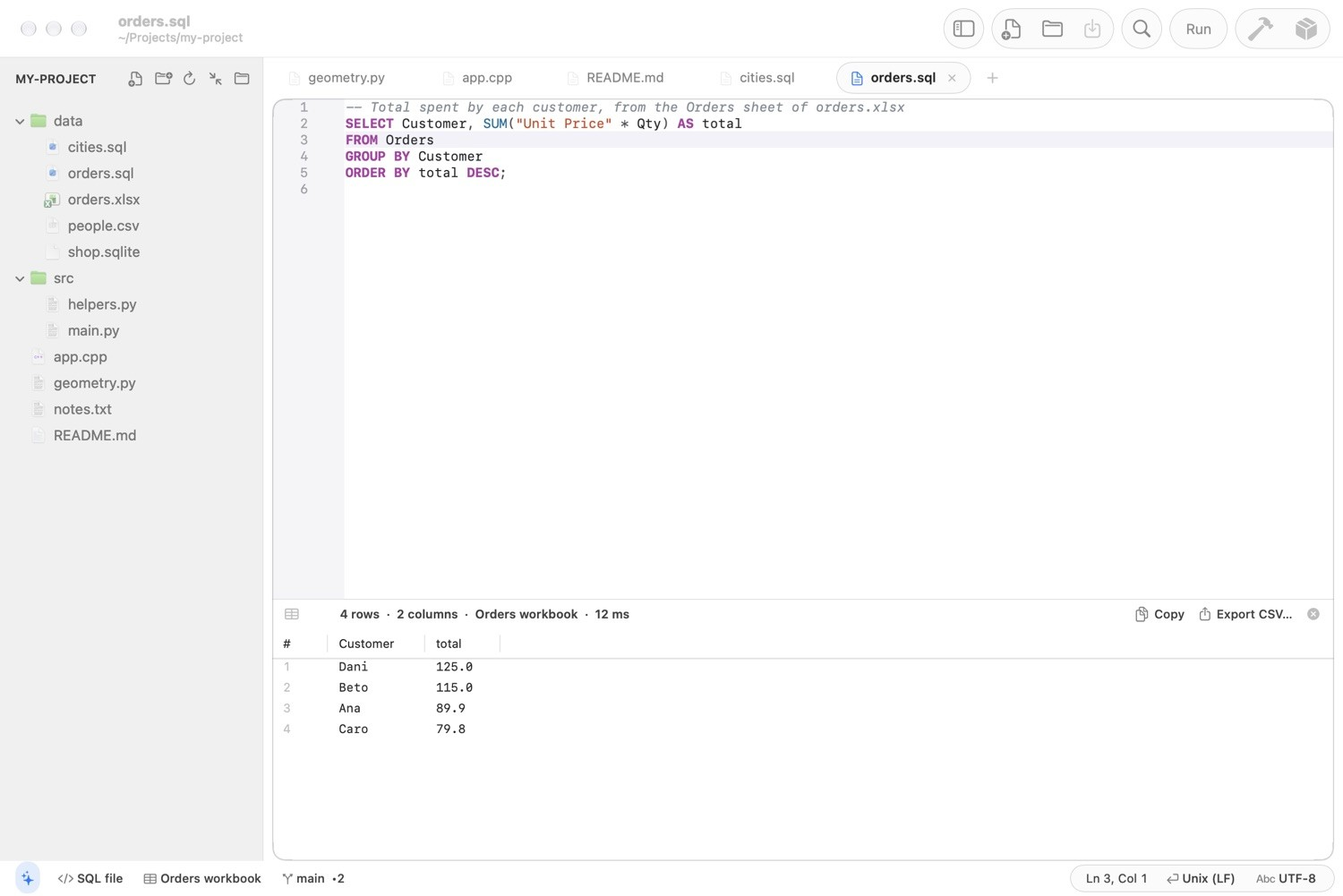
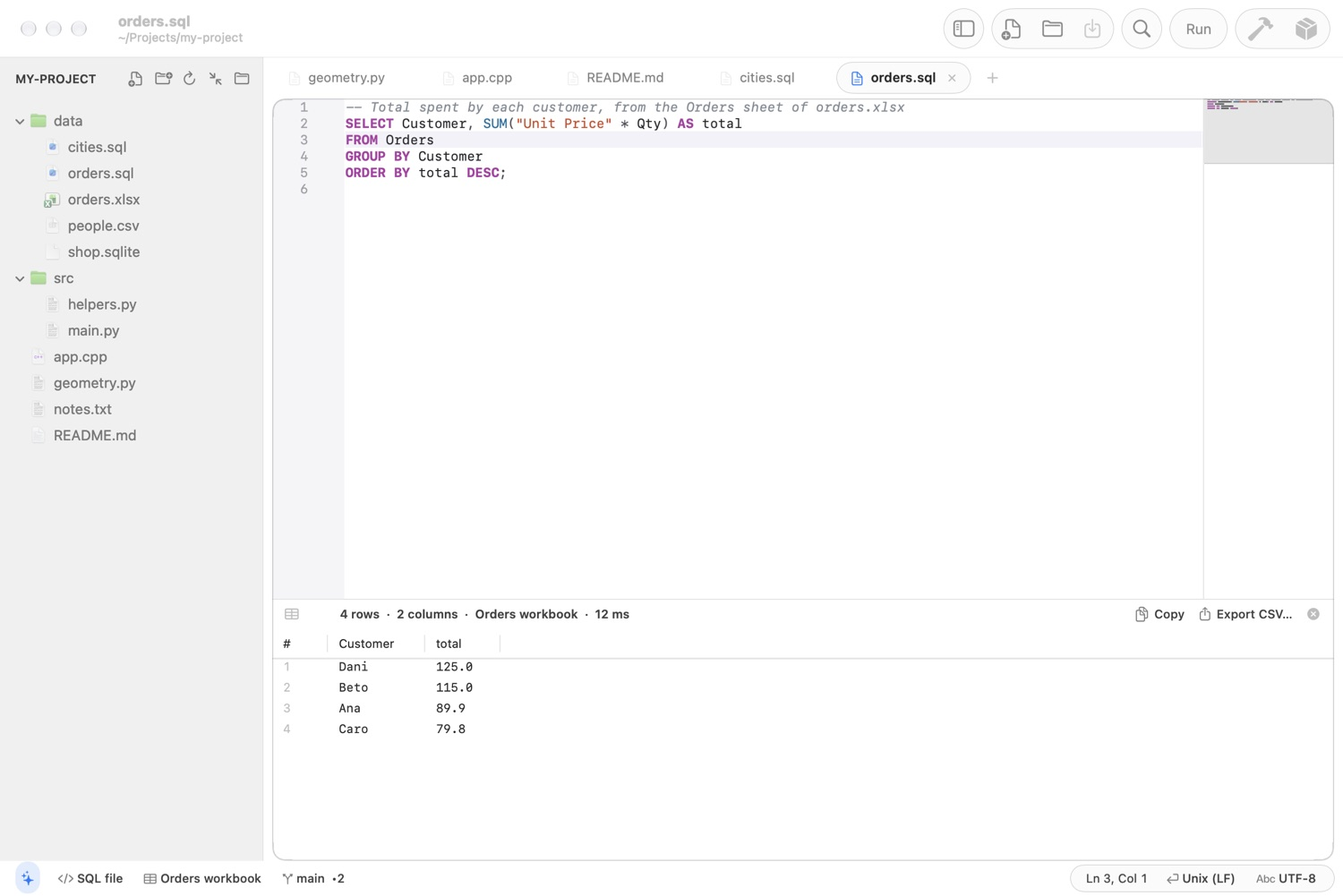
Site follows the latest J++: Go to Anything, Command Palette, minimap, GitHub browsing and pull requests, Claude CLI, new screenshots

Changed region(s): [[0.8893, 0.0929, 1.0, 0.1858]]

diff --git a/es/index.html b/es/index.html
@@ -57,7 +57,7 @@
 <section class="stats" aria-label="J++">
   <div class="wrap stats-grid">
     <div class="stat reveal"><strong>95</strong><span>lenguajes con resaltado de sintaxis</span></div>
-    <div class="stat reveal"><strong>&lt; 10 MB</strong><span>toda la descarga</span></div>
+    <div class="stat reveal"><strong>10 MB</strong><span>toda la descarga</span></div>
     <div class="stat reveal"><strong>0</strong><span>extensiones que instalar</span></div>
     <div class="stat reveal"><strong>0</strong><span>datos recopilados</span></div>
   </div>
@@ -69,12 +69,12 @@
     <h2 class="reveal">Lo que lo hace diferente.</h2>
     <p class="lead reveal">La mayoría de los editores empiezan vacíos y te piden armar el resto. J++ empieza completo, y está hecho para Mac y para nada más.</p>
     <div class="tiles">
-      <article class="tile reveal"><svg class="tile-icon" viewBox="0 0 24 24" aria-hidden="true"><path d="M13 2 4 14h7l-1 8 9-12h-7z"/></svg><h3>Nativo de verdad</h3><p>Hecho con Cocoa para macOS, no una página web dentro de un envoltorio. Arranca rápido, se comporta como el resto de tu Mac, y toda la app es una descarga de menos de 10 MB.</p></article>
+      <article class="tile reveal"><svg class="tile-icon" viewBox="0 0 24 24" aria-hidden="true"><path d="M13 2 4 14h7l-1 8 9-12h-7z"/></svg><h3>Nativo de verdad</h3><p>Hecho con Cocoa para macOS, no una página web dentro de un envoltorio. Arranca rápido, se comporta como el resto de tu Mac, y toda la app es una descarga de unos 10 MB.</p></article>
       <article class="tile reveal"><svg class="tile-icon" viewBox="0 0 24 24" aria-hidden="true"><path d="M21 8 12 3 3 8v8l9 5 9-5z"/><path d="m3 8 9 5 9-5M12 13v8"/></svg><h3>Completo desde el primer día</h3><p>Ejecutar, depurar, IntelliSense, SQL, GitHub e IA son parte de la app. No hay tienda donde buscar ni extensiones que elegir, configurar y mantener al día.</p></article>
       <article class="tile reveal"><svg class="tile-icon" viewBox="0 0 24 24" aria-hidden="true"><ellipse cx="12" cy="5.5" rx="8" ry="3"/><path d="M4 5.5v6.5c0 1.7 3.6 3 8 3s8-1.3 8-3V5.5M4 12v6.500c0 1.700 3.600 3 8 3s8-1.300 8-3V12"/></svg><h3>Tus datos, a una consulta</h3><p>Ejecuta SQL en Databricks, Snowflake, PostgreSQL, MySQL, SQL Server y SQLite. Hasta un libro de Excel o un archivo CSV se convierte en una tabla que puedes consultar.</p></article>
       <article class="tile reveal"><svg class="tile-icon" viewBox="0 0 24 24" aria-hidden="true"><path d="M10 3 11.800 8.200 17 10l-5.200 1.800L10 17l-1.800-5.200L3 10l5.200-1.800z"/><path d="M18 14l.9 2.100L21 17l-2.100.9L18 20l-.9-2.100L15 17l2.100-.9z"/></svg><h3>IA en tus términos</h3><p>Conecta tu propia clave de la API de Claude, cualquier servicio compatible con OpenAI o un modelo que corre en tu Mac. J++ no tiene suscripción, y tu código se envía solo cuando tú lo pides.</p></article>
       <article class="tile reveal"><svg class="tile-icon" viewBox="0 0 24 24" aria-hidden="true"><rect x="5" y="11" width="14" height="10" rx="2.500"/><path d="M8 11V8a4 4 0 0 1 8 0v3"/></svg><h3>Privado por diseño</h3><p>Sin cuenta, sin analíticas, sin publicidad, sin rastreo. Las contraseñas, los tokens y las claves se guardan en el Llavero de macOS.</p></article>
-      <article class="tile reveal"><svg class="tile-icon" viewBox="0 0 24 24" aria-hidden="true"><rect x="3" y="4" width="18" height="12" rx="2"/><path d="M8 20h8M12 16v4"/></svg><h3>En casa en tu Mac</h3><p>Liquid Glass en macOS 26, SF Symbols, SF Mono y apariencias clara y oscura que siguen al sistema. Una sola app para Apple Silicon e Intel.</p></article>
+      <article class="tile reveal"><svg class="tile-icon" viewBox="0 0 24 24" aria-hidden="true"><rect x="3" y="4" width="18" height="12" rx="2"/><path d="M8 20h8M12 16v4"/></svg><h3>En casa en tu Mac</h3><p>Liquid Glass en macOS 26, SF Symbols y SF Mono. La apariencia sigue a macOS, o se queda en clara u oscura si lo prefieres. Una sola app para Apple Silicon e Intel.</p></article>
     </div>
   </div>
 </section>
@@ -89,11 +89,20 @@
       <p class="eyebrow">Editar</p>
       <h3>Un editor que te sigue el ritmo.</h3>
       <p>El motor de edición es Scintilla, conocido por su rapidez con archivos grandes. A su alrededor, J++ añade las herramientas que usas todo el día.</p>
-      <ul><li>Resaltado de sintaxis y plegado de código para 95 lenguajes</li><li>Cursores múltiples, edición en columna, macros y marcadores</li><li>Buscar, reemplazar y marcar con expresiones regulares en todos los archivos abiertos</li><li>Un explorador de archivos que se actualiza cuando la carpeta cambia</li><li>Restauración de la sesión que conserva hasta el texto sin guardar</li></ul>
+      <ul><li>Resaltado de sintaxis y plegado de código para 95 lenguajes</li><li>Cursores múltiples, edición en columna, macros y marcadores</li><li>Buscar, reemplazar y marcar con expresiones regulares en todos los archivos abiertos</li><li>Un explorador de archivos que se actualiza cuando la carpeta cambia</li><li>Una barra de herramientas compacta: los botones de depuración aparecen solo cuando puedes usarlos</li><li>Restauración de la sesión que conserva hasta el texto sin guardar</li></ul>
     </div>
     <div class="feature-shot reveal"><picture><source srcset="../img/overview-dark.jpg" media="(prefers-color-scheme: dark)"><img class="shot " src="../img/overview-light.jpg" alt="El editor de J++ con el explorador lateral y un archivo de Python." width="1500" height="1001" loading="lazy" decoding="async"></picture></div>
   </article>
-  <article class="feature flip" id="intellisense">
+  <article class="feature flip dialog" id="goto">
+    <div class="feature-text reveal">
+      <p class="eyebrow">Ir a cualquier cosa</p>
+      <h3>Escribe unas letras. Ya estás ahí.</h3>
+      <p>Pulsa ⌘P y escribe. J++ encuentra un archivo con unas pocas de sus letras en orden, así que <code>mpy</code> encuentra <code>src/main.py</code>, y <code>nombre:42</code> lo abre en la línea 42.</p>
+      <ul><li>En el mismo panel, <code>@</code> muestra los símbolos del archivo, <code>:</code> va a una línea y <code>#</code> busca texto</li><li>La paleta de comandos (⇧⌘P) ejecuta cualquier comando de los menús por su nombre, y muestra dónde está y su atajo</li><li>Un minimapa de todo el archivo junto al editor: haz clic o arrastra sobre él para desplazarte</li></ul>
+    </div>
+    <div class="feature-shot reveal"><picture><source srcset="../img/palette-commands-dark.jpg" media="(prefers-color-scheme: dark)"><img class="shot " src="../img/palette-commands-light.jpg" alt="La paleta de comandos con los comandos Sort Lines después de escribir «sort lines»." width="1280" height="580" loading="lazy" decoding="async"></picture></div>
+  </article>
+  <article class="feature" id="intellisense">
     <div class="feature-text reveal">
       <p class="eyebrow">IntelliSense</p>
       <h3>Conoce tu código.</h3>
@@ -102,7 +111,7 @@
     </div>
     <div class="feature-shot reveal"><picture><source srcset="../img/intellisense-complete-dark.jpg" media="(prefers-color-scheme: dark)"><img class="shot " src="../img/intellisense-complete-light.jpg" alt="Una lista de autocompletado con los miembros de un objeto de Python." width="1500" height="1001" loading="lazy" decoding="async"></picture></div>
   </article>
-  <article class="feature" id="run">
+  <article class="feature flip" id="run">
     <div class="feature-text reveal">
       <p class="eyebrow">Ejecutar y depurar</p>
       <h3>Pulsa F5. En cualquier lenguaje.</h3>
@@ -111,7 +120,7 @@
     </div>
     <div class="feature-shot reveal"><picture><source srcset="../img/debug-dark.jpg" media="(prefers-color-scheme: dark)"><img class="shot " src="../img/debug-light.jpg" alt="El depurador de Python detenido en una línea, con las variables junto a la salida." width="1500" height="1001" loading="lazy" decoding="async"></picture></div>
   </article>
-  <article class="feature flip" id="sql">
+  <article class="feature" id="sql">
     <div class="feature-text reveal">
       <p class="eyebrow">Bases de datos</p>
       <h3>SQL, justo al lado de tu código.</h3>
@@ -120,21 +129,21 @@
     </div>
     <div class="feature-shot reveal"><picture><source srcset="../img/excel-dark.jpg" media="(prefers-color-scheme: dark)"><img class="shot " src="../img/excel-light.jpg" alt="Una consulta SQL sobre un libro de Excel, con los resultados en una tabla bajo el código." width="1500" height="1001" loading="lazy" decoding="async"></picture></div>
   </article>
-  <article class="feature" id="ai">
+  <article class="feature flip" id="ai">
     <div class="feature-text reveal">
       <p class="eyebrow">Asistente de IA</p>
       <h3>Un asistente que ve lo que tú ves.</h3>
       <p>Haz una pregunta y el asistente lee el archivo que tienes delante y tu selección. Insert y Replace Selection llevan el código de la respuesta al editor en un solo paso de deshacer.</p>
-      <ul><li>Preguntas listas para explicar el código, buscar problemas, mejorarlo, añadir comentarios o escribir pruebas</li><li>Modelos Claude con tu propia clave de API, con respuestas que aparecen mientras se escriben</li><li>Cualquier servicio compatible con OpenAI, incluido un modelo local como Ollama</li></ul>
+      <ul><li>Preguntas listas para explicar el código, buscar problemas, mejorarlo, añadir comentarios o escribir pruebas</li><li>Modelos Claude con tu propia clave de API, con respuestas que aparecen mientras se escriben</li><li>Cualquier servicio compatible con OpenAI, incluido un modelo local como Ollama</li><li>¿Aún no hay un modelo conectado? Si Claude CLI está instalado, el mismo botón lo abre en Terminal, en la carpeta de tu proyecto</li></ul>
     </div>
     <div class="feature-shot reveal"><picture><source srcset="../img/assistant-dark.jpg" media="(prefers-color-scheme: dark)"><img class="shot " src="../img/assistant-light.jpg" alt="El panel del asistente junto al editor, explicando un error en la función seleccionada." width="1500" height="1001" loading="lazy" decoding="async"></picture></div>
   </article>
-  <article class="feature flip dialog" id="github">
+  <article class="feature dialog" id="github">
     <div class="feature-text reveal">
       <p class="eyebrow">GitHub</p>
-      <h3>De clonar a publicar, sin salir.</h3>
+      <h3>De explorar a fusionar, sin salir.</h3>
       <p>Conecta tu cuenta y J++ muestra tus repositorios. La barra de estado indica la rama, lo que hay por enviar o recibir y cuántos archivos cambiaron.</p>
-      <ul><li>Clonar, confirmar, enviar, recibir y actualizar</li><li>Publicar una carpeta en un repositorio nuevo</li><li>Crear un gist desde un archivo o copiar un enlace a la línea actual</li></ul>
+      <ul><li>Explora las carpetas y los archivos de tus repositorios sin clonarlos</li><li>Crea un pull request y fusiónalo con merge, squash o rebase</li><li>Clonar, confirmar, enviar, recibir y actualizar</li><li>Publica una carpeta en un repositorio nuevo, crea un gist o copia un enlace a la línea actual</li></ul>
     </div>
     <div class="feature-shot reveal"><picture><source srcset="../img/github-clone-dark.jpg" media="(prefers-color-scheme: dark)"><img class="shot " src="../img/github-clone-light.jpg" alt="La ventana Clonar repositorio con la lista de repositorios de la cuenta." width="1280" height="920" loading="lazy" decoding="async"></picture></div>
   </article>

diff --git a/index.html b/index.html
@@ -57,7 +57,7 @@
 <section class="stats" aria-label="J++">
   <div class="wrap stats-grid">
     <div class="stat reveal"><strong>95</strong><span>languages with syntax colouring</span></div>
-    <div class="stat reveal"><strong>&lt; 10 MB</strong><span>the whole download</span></div>
+    <div class="stat reveal"><strong>10 MB</strong><span>the whole download</span></div>
     <div class="stat reveal"><strong>0</strong><span>extensions to install</span></div>
     <div class="stat reveal"><strong>0</strong><span>data collected</span></div>
   </div>
@@ -69,12 +69,12 @@
     <h2 class="reveal">What makes it different.</h2>
     <p class="lead reveal">Most editors start empty and ask you to assemble the rest. J++ starts complete, and it is made for the Mac and nothing else.</p>
     <div class="tiles">
-      <article class="tile reveal"><svg class="tile-icon" viewBox="0 0 24 24" aria-hidden="true"><path d="M13 2 4 14h7l-1 8 9-12h-7z"/></svg><h3>Truly native</h3><p>Built with Cocoa for macOS, not a web page inside a wrapper. It starts fast, behaves like the rest of your Mac, and the whole app is a download of less than 10 MB.</p></article>
+      <article class="tile reveal"><svg class="tile-icon" viewBox="0 0 24 24" aria-hidden="true"><path d="M13 2 4 14h7l-1 8 9-12h-7z"/></svg><h3>Truly native</h3><p>Built with Cocoa for macOS, not a web page inside a wrapper. It starts fast, behaves like the rest of your Mac, and the whole app is a download of about 10 MB.</p></article>
       <article class="tile reveal"><svg class="tile-icon" viewBox="0 0 24 24" aria-hidden="true"><path d="M21 8 12 3 3 8v8l9 5 9-5z"/><path d="m3 8 9 5 9-5M12 13v8"/></svg><h3>Complete from the first launch</h3><p>Run, debug, IntelliSense, SQL, GitHub and AI are part of the app. There is no marketplace to search and no extensions to choose, set up and keep updated.</p></article>
       <article class="tile reveal"><svg class="tile-icon" viewBox="0 0 24 24" aria-hidden="true"><ellipse cx="12" cy="5.5" rx="8" ry="3"/><path d="M4 5.5v6.5c0 1.7 3.6 3 8 3s8-1.3 8-3V5.5M4 12v6.500c0 1.700 3.600 3 8 3s8-1.300 8-3V12"/></svg><h3>Your data is one query away</h3><p>Run SQL on Databricks, Snowflake, PostgreSQL, MySQL, SQL Server and SQLite. Even an Excel workbook or a CSV file becomes a table you can query.</p></article>
       <article class="tile reveal"><svg class="tile-icon" viewBox="0 0 24 24" aria-hidden="true"><path d="M10 3 11.800 8.200 17 10l-5.200 1.800L10 17l-1.800-5.200L3 10l5.200-1.800z"/><path d="M18 14l.9 2.100L21 17l-2.100.9L18 20l-.9-2.100L15 17l2.100-.9z"/></svg><h3>AI on your terms</h3><p>Connect your own Claude API key, any OpenAI-compatible service, or a model running on your Mac. J++ has no subscription, and your code is sent only when you ask.</p></article>
       <article class="tile reveal"><svg class="tile-icon" viewBox="0 0 24 24" aria-hidden="true"><rect x="5" y="11" width="14" height="10" rx="2.500"/><path d="M8 11V8a4 4 0 0 1 8 0v3"/></svg><h3>Private by design</h3><p>No account, no analytics, no advertising, no tracking. Passwords, tokens and API keys are kept in the macOS Keychain.</p></article>
-      <article class="tile reveal"><svg class="tile-icon" viewBox="0 0 24 24" aria-hidden="true"><rect x="3" y="4" width="18" height="12" rx="2"/><path d="M8 20h8M12 16v4"/></svg><h3>At home on your Mac</h3><p>Liquid Glass on macOS 26, SF Symbols, SF Mono, and light and dark appearances that follow the system. One app for Apple silicon and Intel.</p></article>
+      <article class="tile reveal"><svg class="tile-icon" viewBox="0 0 24 24" aria-hidden="true"><rect x="3" y="4" width="18" height="12" rx="2"/><path d="M8 20h8M12 16v4"/></svg><h3>At home on your Mac</h3><p>Liquid Glass on macOS 26, SF Symbols and SF Mono. The appearance follows macOS, or stays Light or Dark if you prefer. One app for Apple silicon and Intel.</p></article>
     </div>
   </div>
 </section>
@@ -89,11 +89,20 @@
       <p class="eyebrow">Edit</p>
       <h3>An editor that keeps up with you.</h3>
       <p>The editing engine is Scintilla, known for its speed with large files. Around it, J++ adds the tools you use all day.</p>
-      <ul><li>Syntax colouring and code folding for 95 languages</li><li>Multiple cursors, column editing, macros and bookmarks</li><li>Find, replace and mark with regular expressions, across all open files</li><li>A file explorer that follows the folder as it changes</li><li>Session restore that keeps even your unsaved text</li></ul>
+      <ul><li>Syntax colouring and code folding for 95 languages</li><li>Multiple cursors, column editing, macros and bookmarks</li><li>Find, replace and mark with regular expressions, across all open files</li><li>A file explorer that follows the folder as it changes</li><li>A compact toolbar: the debugging buttons appear only when you can use them</li><li>Session restore that keeps even your unsaved text</li></ul>
     </div>
     <div class="feature-shot reveal"><picture><source srcset="img/overview-dark.jpg" media="(prefers-color-scheme: dark)"><img class="shot " src="img/overview-light.jpg" alt="The J++ editor with the explorer sidebar and a Python file." width="1500" height="1001" loading="lazy" decoding="async"></picture></div>
   </article>
-  <article class="feature flip" id="intellisense">
+  <article class="feature flip dialog" id="goto">
+    <div class="feature-text reveal">
+      <p class="eyebrow">Go to Anything</p>
+      <h3>Type a few letters. You are there.</h3>
+      <p>Press ⌘P and type. J++ finds a file from a few of its letters in order, so <code>mpy</code> finds <code>src/main.py</code>, and <code>name:42</code> opens it at line 42.</p>
+      <ul><li>In the same panel, <code>@</code> lists the symbols of the file, <code>:</code> goes to a line and <code>#</code> finds text</li><li>The Command Palette (⇧⌘P) runs any menu command by name, and shows where it lives and its shortcut</li><li>A minimap of the whole file beside the editor: click or drag on it to scroll</li></ul>
+    </div>
+    <div class="feature-shot reveal"><picture><source srcset="img/palette-commands-dark.jpg" media="(prefers-color-scheme: dark)"><img class="shot " src="img/palette-commands-light.jpg" alt="The Command Palette listing the Sort Lines commands after typing “sort lines”." width="1280" height="580" loading="lazy" decoding="async"></picture></div>
+  </article>
+  <article class="feature" id="intellisense">
     <div class="feature-text reveal">
       <p class="eyebrow">IntelliSense</p>
       <h3>It knows your code.</h3>
@@ -102,7 +111,7 @@
     </div>
     <div class="feature-shot reveal"><picture><source srcset="img/intellisense-complete-dark.jpg" media="(prefers-color-scheme: dark)"><img class="shot " src="img/intellisense-complete-light.jpg" alt="A completion list showing the members of a Python object." width="1500" height="1001" loading="lazy" decoding="async"></picture></div>
   </article>
-  <article class="feature" id="run">
+  <article class="feature flip" id="run">
     <div class="feature-text reveal">
       <p class="eyebrow">Run and debug</p>
       <h3>Press F5. In any language.</h3>
@@ -111,7 +120,7 @@
     </div>
     <div class="feature-shot reveal"><picture><source srcset="img/debug-dark.jpg" media="(prefers-color-scheme: dark)"><img class="shot " src="img/debug-light.jpg" alt="The Python debugger paused on a line, with the variables listed beside the output." width="1500" height="1001" loading="lazy" decoding="async"></picture></div>
   </article>
-  <article class="feature flip" id="sql">
+  <article class="feature" id="sql">
     <div class="feature-text reveal">
       <p class="eyebrow">Databases</p>
       <h3>SQL, right next to your code.</h3>
@@ -120,21 +129,21 @@
     </div>
     <div class="feature-shot reveal"><picture><source srcset="img/excel-dark.jpg" media="(prefers-color-scheme: dark)"><img class="shot " src="img/excel-light.jpg" alt="A SQL query over an Excel workbook, with the results in a grid under the code." width="1500" height="1001" loading="lazy" decoding="async"></picture></div>
   </article>
-  <article class="feature" id="ai">
+  <article class="feature flip" id="ai">
     <div class="feature-text reveal">
       <p class="eyebrow">AI assistant</p>
       <h3>An assistant that sees what you see.</h3>
       <p>Ask a question and the assistant reads the file in front of you and your selection. Insert and Replace Selection put the answer's code into the editor as one undo step.</p>
-      <ul><li>Ready-made questions: Explain Code, Find Problems, Improve Code, Add Comments, Write Tests</li><li>Claude models with your own API key, with answers that appear as they are written</li><li>Any OpenAI-compatible endpoint, including a local model such as Ollama</li></ul>
+      <ul><li>Ready-made questions: Explain Code, Find Problems, Improve Code, Add Comments, Write Tests</li><li>Claude models with your own API key, with answers that appear as they are written</li><li>Any OpenAI-compatible endpoint, including a local model such as Ollama</li><li>No model connected yet? If Claude CLI is installed, the same button opens it in Terminal, in your project's folder</li></ul>
     </div>
     <div class="feature-shot reveal"><picture><source srcset="img/assistant-dark.jpg" media="(prefers-color-scheme: dark)"><img class="shot " src="img/assistant-light.jpg" alt="The assistant panel beside the editor, explaining a bug in the selected function." width="1500" height="1001" loading="lazy" decoding="async"></picture></div>
   </article>
-  <article class="feature flip dialog" id="github">
+  <article class="feature dialog" id="github">
     <div class="feature-text reveal">
       <p class="eyebrow">GitHub</p>
-      <h3>From clone to push, without leaving.</h3>
+      <h3>From browse to merge, without leaving.</h3>
       <p>Connect your account and J++ lists your repositories. The status bar shows the branch, what there is to push or pull, and how many files changed.</p>
-      <ul><li>Clone, commit, push, pull and fetch</li><li>Publish a folder to a new repository</li><li>Create a gist from a file, or copy a link to the current line</li></ul>
+      <ul><li>Browse the folders and files of your repositories without cloning them</li><li>Create a pull request, and merge it with merge, squash or rebase</li><li>Clone, commit, push, pull and fetch</li><li>Publish a folder to a new repository, create a gist, or copy a link to the current line</li></ul>
     </div>
     <div class="feature-shot reveal"><picture><source srcset="img/github-clone-dark.jpg" media="(prefers-color-scheme: dark)"><img class="shot " src="img/github-clone-light.jpg" alt="The Clone Repository window with the list of the account&#x27;s repositories." width="1280" height="920" loading="lazy" decoding="async"></picture></div>
   </article>

diff --git a/es/support.html b/es/support.html
@@ -52,8 +52,14 @@
 <p>Abre <strong>Database ▸ Manage Connections…</strong> (<code>⇧⌘D</code>), añade una conexión y pulsa <code>⌘↩</code> en una pestaña SQL. Los resultados aparecen debajo de tu código. PostgreSQL, MySQL y SQL Server necesitan sus clientes de línea de comandos, que puedes instalar con Homebrew.</p>
 <h2>Depurar Python</h2>
 <p>Haz clic en el margen junto a una línea para poner un punto de interrupción y pulsa <code>F6</code>. Usa la barra de herramientas para avanzar paso a paso.</p>
+<h2>Encontrar archivos, símbolos y comandos</h2>
+<p>Pulsa <code>⌘P</code> para abrir un archivo escribiendo unas pocas de sus letras. En el mismo panel, <code>@</code> muestra los símbolos del archivo actual, <code>:</code> va a una línea, <code>#</code> busca en el texto del archivo y <code>&gt;</code> (o <code>⇧⌘P</code>) ejecuta cualquier comando de los menús. <strong>View ▸ Show Minimap</strong> muestra u oculta el mapa del archivo.</p>
+<h2>GitHub</h2>
+<p>Conecta tu cuenta con <strong>GitHub ▸ Account…</strong>. Después, <strong>GitHub ▸ Browse Repositories…</strong> (<code>⌥⌘G</code>) muestra las carpetas y los archivos de tus repositorios sin clonarlos, y permite crear o fusionar pull requests.</p>
+<h2>Apariencia clara u oscura</h2>
+<p>Elige <strong>J++ ▸ Settings ▸ Appearance</strong>: <strong>Match macOS</strong> (el valor por defecto), <strong>Light</strong> o <strong>Dark</strong>. La elección cambia toda la app y los colores del código.</p>
 <h2>La versión del Mac App Store</h2>
-<p>Apple exige que las apps del App Store funcionen en un entorno aislado, así que esa versión usa solo las herramientas de macOS y de Xcode. No puede iniciar un programa que acaba de compilar en C, C++ u Objective-C, y no ofrece conexiones a PostgreSQL, MySQL ni SQL Server. Cuando un compilador necesite otros archivos de la misma carpeta, pulsa <strong>Allow Folder Access…</strong> en el panel de salida.</p>
+<p>Apple exige que las apps del App Store funcionen en un entorno aislado, así que esa versión usa solo las herramientas de macOS y de Xcode. No puede iniciar un programa que acaba de compilar en C, C++ u Objective-C, y no ofrece conexiones a PostgreSQL, MySQL ni SQL Server. Cuando un compilador necesite otros archivos de la misma carpeta, pulsa <strong>Allow Folder Access…</strong> en el panel de salida. Claude CLI tampoco se puede iniciar desde el entorno aislado, así que el botón del asistente siempre abre el chat.</p>
 <h2>Contacto</h2>
 <p>Escribe a <a href="mailto:leiton@live.com?subject=J%2B%2B">leiton@live.com</a>. Incluye tu versión de macOS y lo que estabas haciendo.</p>
 </article>

diff --git a/es/privacy.html b/es/privacy.html
@@ -48,7 +48,7 @@
 <h2>Tus archivos</h2>
 <p>J++ abre solo los archivos y carpetas que tú eliges. Se quedan en tu Mac. Para reabrir tu sesión anterior, J++ guarda una lista de esos archivos, y una copia del texto sin guardar, en su propia carpeta privada en tu Mac.</p>
 <h2>Servicios que conectas</h2>
-<p>J++ se comunica con otros servicios solo cuando tú los configuras y pides algo:</p><ul><li><strong>Bases de datos.</strong> Si añades una conexión a una base de datos, tus consultas van directamente de tu Mac al servidor que indicaste.</li><li><strong>GitHub.</strong> Si conectas una cuenta de GitHub, J++ la usa para mostrar tus repositorios, para clonar, enviar y recibir cambios, y para crear gists cuando lo pides.</li><li><strong>Modelos de IA.</strong> Si conectas un modelo, la pregunta que escribes, y el archivo y la selección que elegiste incluir, se envían al proveedor de ese modelo (por ejemplo, Anthropic) cuando pulsas Enviar. A lo que ese proveedor recibe se aplican sus propios términos y su política de privacidad.</li></ul><p>Los datos de conexión se guardan en tu Mac, y las contraseñas, los tokens y las claves de API se guardan en el Llavero de macOS. Nada de esto pasa por el desarrollador de J++.</p>
+<p>J++ se comunica con otros servicios solo cuando tú los configuras y pides algo:</p><ul><li><strong>Bases de datos.</strong> Si añades una conexión a una base de datos, tus consultas van directamente de tu Mac al servidor que indicaste.</li><li><strong>GitHub.</strong> Si conectas una cuenta de GitHub, J++ la usa para mostrar tus repositorios con sus carpetas y archivos, para crear y fusionar pull requests, para clonar, enviar y recibir cambios, y para crear gists cuando lo pides. Los archivos que abres desde GitHub se guardan como copias temporales en tu Mac.</li><li><strong>Modelos de IA.</strong> Si conectas un modelo, la pregunta que escribes, y el archivo y la selección que elegiste incluir, se envían al proveedor de ese modelo (por ejemplo, Anthropic) cuando pulsas Enviar. A lo que ese proveedor recibe se aplican sus propios términos y su política de privacidad.</li></ul><p>Los datos de conexión se guardan en tu Mac, y las contraseñas, los tokens y las claves de API se guardan en el Llavero de macOS. Nada de esto pasa por el desarrollador de J++.</p>
 <h2>Este sitio web</h2>
 <p>Este sitio web no usa cookies, analíticas ni scripts de terceros. El idioma que eliges con el interruptor EN | ES se recuerda en tu propio navegador y no se envía a ningún lado.</p>
 <h2>Cambios</h2>

diff --git a/support.html b/support.html
@@ -52,8 +52,14 @@
 <p>Open <strong>Database ▸ Manage Connections…</strong> (<code>⇧⌘D</code>), add a connection, then press <code>⌘↩</code> in a SQL tab. Results appear under your code. PostgreSQL, MySQL and SQL Server need their command line clients, which you can install with Homebrew.</p>
 <h2>Debugging Python</h2>
 <p>Click the margin next to a line to set a breakpoint, then press <code>F6</code>. Use the toolbar to step through the code.</p>
+<h2>Finding files, symbols and commands</h2>
+<p>Press <code>⌘P</code> to open a file by typing a few of its letters. Inside the same panel, <code>@</code> lists the symbols of the current file, <code>:</code> goes to a line, <code>#</code> searches the file's text and <code>&gt;</code> (or <code>⇧⌘P</code>) runs any menu command. <strong>View ▸ Show Minimap</strong> shows or hides the map of the file.</p>
+<h2>GitHub</h2>
+<p>Connect your account with <strong>GitHub ▸ Account…</strong>. Then <strong>GitHub ▸ Browse Repositories…</strong> (<code>⌥⌘G</code>) shows the folders and files of your repositories without cloning them, and lets you create or merge pull requests.</p>
+<h2>Light or dark appearance</h2>
+<p>Choose <strong>J++ ▸ Settings ▸ Appearance</strong>: <strong>Match macOS</strong> (the default), <strong>Light</strong> or <strong>Dark</strong>. The choice sets the whole app and the colours of the code.</p>
 <h2>The Mac App Store version</h2>
-<p>Apple requires App Store apps to run in a sandbox, so that version uses only the tools from macOS and Xcode. It cannot start a program it has just built from C, C++ or Objective-C, and it does not offer PostgreSQL, MySQL or SQL Server connections. When a compiler needs other files in the same folder, press <strong>Allow Folder Access…</strong> in the output pane.</p>
+<p>Apple requires App Store apps to run in a sandbox, so that version uses only the tools from macOS and Xcode. It cannot start a program it has just built from C, C++ or Objective-C, and it does not offer PostgreSQL, MySQL or SQL Server connections. When a compiler needs other files in the same folder, press <strong>Allow Folder Access…</strong> in the output pane. Claude CLI cannot be started from the sandbox either, so the assistant button always opens the chat.</p>
 <h2>Contact</h2>
 <p>Write to <a href="mailto:leiton@live.com?subject=J%2B%2B">leiton@live.com</a>. Please include your macOS version and what you were doing.</p>
 </article>

diff --git a/privacy.html b/privacy.html
@@ -48,7 +48,7 @@
 <h2>Your files</h2>
 <p>J++ opens only the files and folders you choose. They stay on your Mac. To reopen your previous session, J++ keeps a list of those files, and a copy of unsaved text, in its own private folder on your Mac.</p>
 <h2>Services you connect</h2>
-<p>J++ talks to other services only when you set them up and ask for something:</p><ul><li><strong>Databases.</strong> If you add a database connection, your queries go directly from your Mac to the server you entered.</li><li><strong>GitHub.</strong> If you connect a GitHub account, J++ uses it to list your repositories, to clone, push and pull, and to create gists when you ask.</li><li><strong>AI models.</strong> If you connect a model, the question you type, and the file and selection you chose to include, are sent to that model's provider (for example Anthropic) when you press Send. That provider's own terms and privacy policy apply to what it receives.</li></ul><p>Connection details are stored on your Mac, and passwords, tokens and API keys are stored in the macOS Keychain. None of this passes through the developer of J++.</p>
+<p>J++ talks to other services only when you set them up and ask for something:</p><ul><li><strong>Databases.</strong> If you add a database connection, your queries go directly from your Mac to the server you entered.</li><li><strong>GitHub.</strong> If you connect a GitHub account, J++ uses it to list your repositories and show their folders and files, to create and merge pull requests, to clone, push and pull, and to create gists when you ask. Files you open from GitHub are saved as temporary copies on your Mac.</li><li><strong>AI models.</strong> If you connect a model, the question you type, and the file and selection you chose to include, are sent to that model's provider (for example Anthropic) when you press Send. That provider's own terms and privacy policy apply to what it receives.</li></ul><p>Connection details are stored on your Mac, and passwords, tokens and API keys are stored in the macOS Keychain. None of this passes through the developer of J++.</p>
 <h2>This website</h2>
 <p>This website uses no cookies, no analytics and no third-party scripts. The language you pick with the EN | ES switch is remembered in your own browser and is not sent anywhere.</p>
 <h2>Changes</h2>
